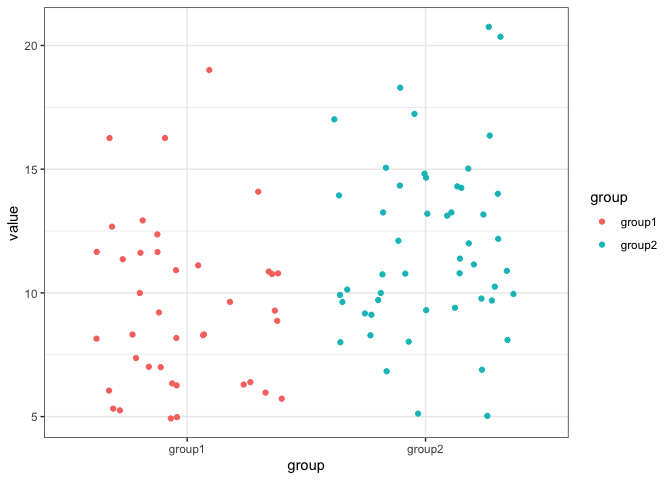
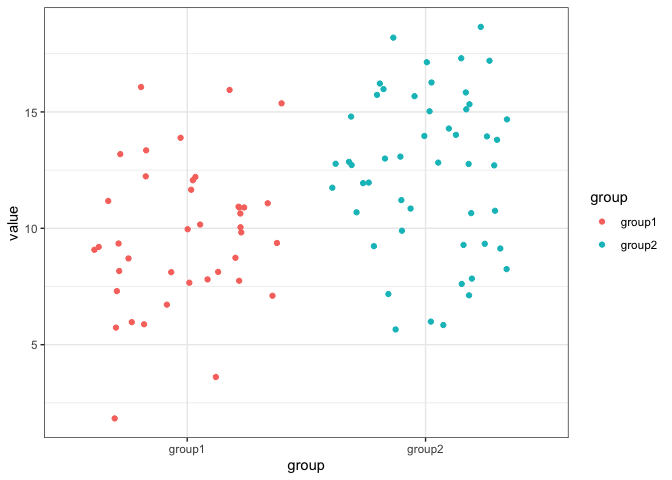
Edited README to reflect new output format

diff --git a/README.md b/README.md
@@ -35,7 +35,71 @@ poisdm(c(40, 50), c(10, 12), c("group1", "group2"), TRUE)
 
 <img src="man/figures/README-example-1.png" width="100%" /><img src="man/figures/README-example-2.png" width="100%" />
 
-    #> [1] "input"
-    #>   groupnames  n lambda
-    #> 1     group1 40     10
-    #> 2     group2 50     12
+    #> $param
+    #> $param$groupnames
+    #> [1] "group1" "group2"
+    #> 
+    #> $param$n
+    #> [1] 40 50
+    #> 
+    #> $param$lambda
+    #> [1] 10 12
+    #> 
+    #> 
+    #> $simdata
+    #>     group1 group2
+    #> V1       8      8
+    #> V2      11     10
+    #> V3       8     14
+    #> V4       9      6
+    #> V5      11     13
+    #> V6      11     14
+    #> V7       8     11
+    #> V8       8     13
+    #> V9       9      9
+    #> V10     11     14
+    #> V11      4     19
+    #> V12     13     16
+    #> V13      7     11
+    #> V14     16     12
+    #> V15     16     13
+    #> V16      8      7
+    #> V17     10     15
+    #> V18      6     15
+    #> V19      8     17
+    #> V20      2     16
+    #> V21     11     15
+    #> V22      6     13
+    #> V23     12     11
+    #> V24     11     16
+    #> V25     12     13
+    #> V26     10     14
+    #> V27     10     13
+    #> V28     12      6
+    #> V29     12     16
+    #> V30      6     13
+    #> V31     10     14
+    #> V32      9     16
+    #> V33     14      8
+    #> V34     13     15
+    #> V35      7      9
+    #> V36      9      9
+    #> V37      9     17
+    #> V38      9     11
+    #> V39     15     17
+    #> V40      7     13
+    #> V41     NA      8
+    #> V42     NA      9
+    #> V43     NA     11
+    #> V44     NA      7
+    #> V45     NA     15
+    #> V46     NA     12
+    #> V47     NA     16
+    #> V48     NA     12
+    #> V49     NA     18
+    #> V50     NA      6
+    #> 
+    #> $distrib
+    #> [1] "poisson"
+
+Input parameters are listed as $param and simmulated data as $simdata
